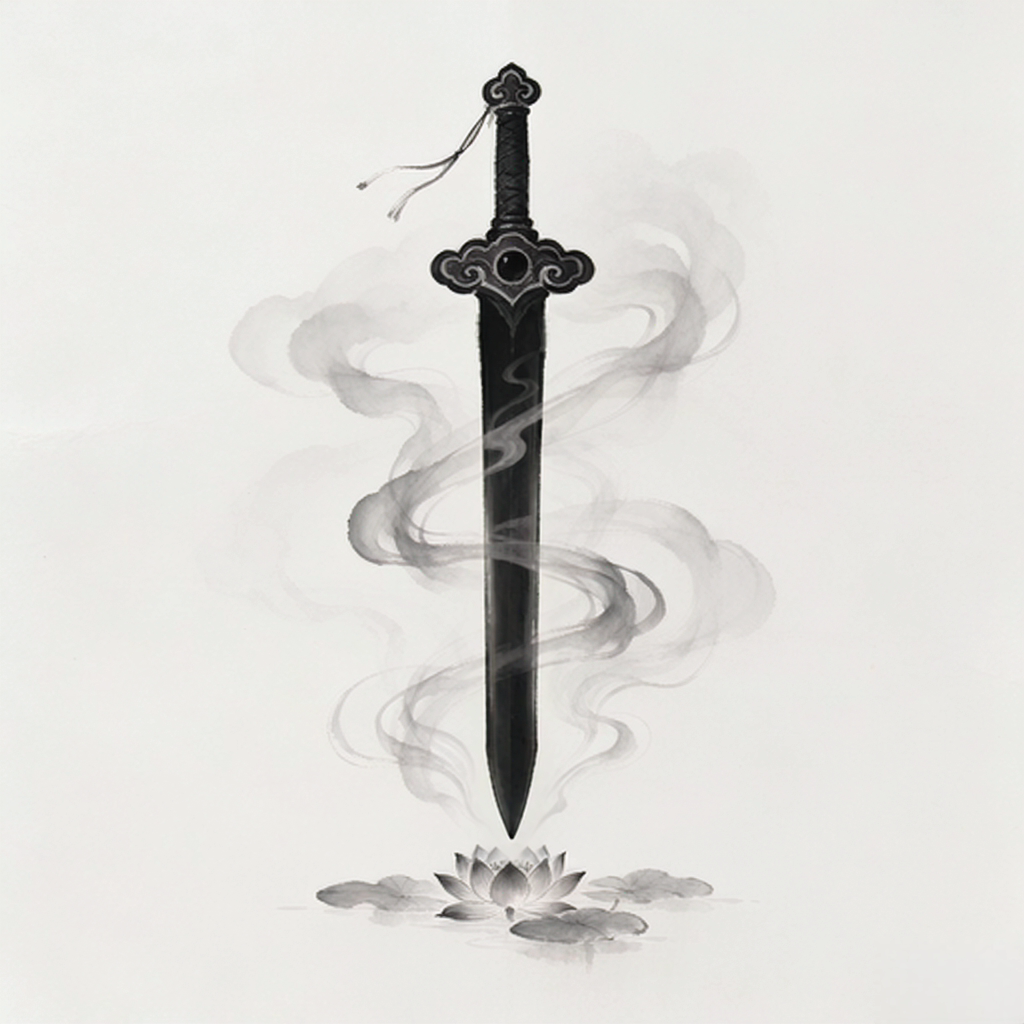
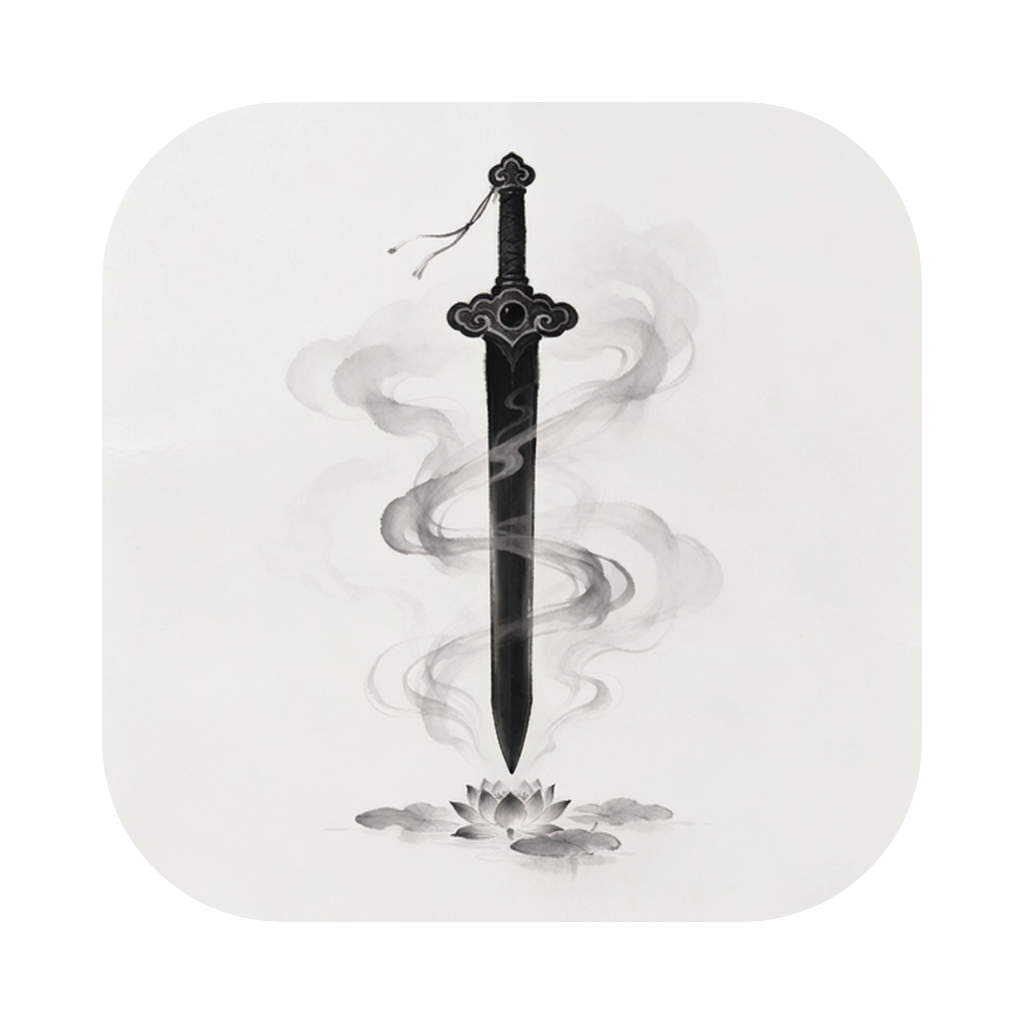
fix(desktop): 应用图标加圆角与透明留白，修复 Dock 图标直角且过大

diff --git a/desktop/README.md b/desktop/README.md
@@ -64,7 +64,7 @@ desktop/
 
 | 落点 | 用什么 | 为什么 |
 |---|---|---|
-| 应用图标（Dock / 窗口 / 关于面板） | `assets/icon.png`，源自写实 logo | 大尺寸，写实笔触可辨 |
+| 应用图标（Dock / 窗口 / 关于面板） | `assets/icon.png`，源自写实 logo，带圆角与透明边距 | 大尺寸写实笔触可辨；透明底 + 圆角 + 内缩让 Dock 呈现为系统应用图标，不会顶满格子或显示成直角方图 |
 | 壳顶栏左上角 | **留空占位**，不显示 logo / 名称 / 版本号 | 2026-11-22 改决：碧游宫不占任何品牌位，左上角空出；空白区仍可拖拽窗口 |
 | 关于面板 | `nativeImage` 载 `assets/icon.png` | 同上 |
 | dsh 侧栏品牌位 | **碧游宫插件不占用**；显式启用 dsh-web-app 的 `ui-brand-official`，显示 deepseek 官方字标 | dsh 侧栏保留官方发行版外观，不显示「DSH 本地构建」fallback |
@@ -77,7 +77,10 @@ npm run icon -- --geo     # 几何副版（回溯旧样式）
 ```
 
 注意：`render-icon.main.cjs` 支持 PNG（写实）与 SVG（几何）两种源；改事实源后跑 `npm run icon`，
-不要手工覆盖 `assets/icon.png`。
+不要手工覆盖 `assets/icon.png`。渲染时会把源图放进透明画布、加圆角遮罩并四周内缩
+（默认 inset 10%、radius 22%，可给 `render-icon.main.cjs` 传第 4/5 个参数调整）——
+`app.dock.setIcon()` 不会给满幅不透明方图自动加圆角，所以图标本身必须带 alpha 与留白。
+事实源 `assets/brand/icon-photo.png` 保持满幅原作不动。
 
 ## 三、快速开始
 

diff --git a/.trellis/tasks/11-21-desktop-client/implement.md b/.trellis/tasks/11-21-desktop-client/implement.md
@@ -249,8 +249,14 @@ S7：健壮性与退出（异常恢复、错误路径、日志脱敏、无残留
   not permitted` 导致 GPU 进程反复崩溃退出（SIGTRAP），与 S8 记录的限制一致；真机验收
   仍需 client-packaging 完成。
 - **清单缺陷（待改）**：`build.mjs` 对 `.app` 目录产物用「路径字符串」算 SHA-256，
-  内容变了哈希不变（三次打包 `.app` 哈希均为 `28870c07…`）。需改为真实内容哈希或
+  内容变了哈希不变（多次打包 `.app` 哈希均为 `28870c07…`）。需改为真实内容哈希或
   标注为目录清单哈希，交 client-packaging。
+- **Dock 图标圆角/尺寸修正（2026-11-23）**：真机反馈 Dock 图标是直角方图、比系统图标
+  大一圈。根因是 `assets/icon.png` 为 1024×1024 满幅 RGB 无 alpha，`app.dock.setIcon()`
+  对不透明方图不加圆角。修法：改 `render-icon.main.cjs`，渲染时把源图放进透明画布、
+  加圆角遮罩（radius 22%）并四周内缩（inset 10%），输出 RGBA；事实源
+  `assets/brand/icon-photo.png` 不动。重生成 `icon.png` 并重打包，从 `icon.icns` 导出
+  预览确认圆角+透明+留白正确，冒烟全绿。
 
 ## 路线调整 · 呈现层改走 dsh 客户端插件（2026-11-21）
 
